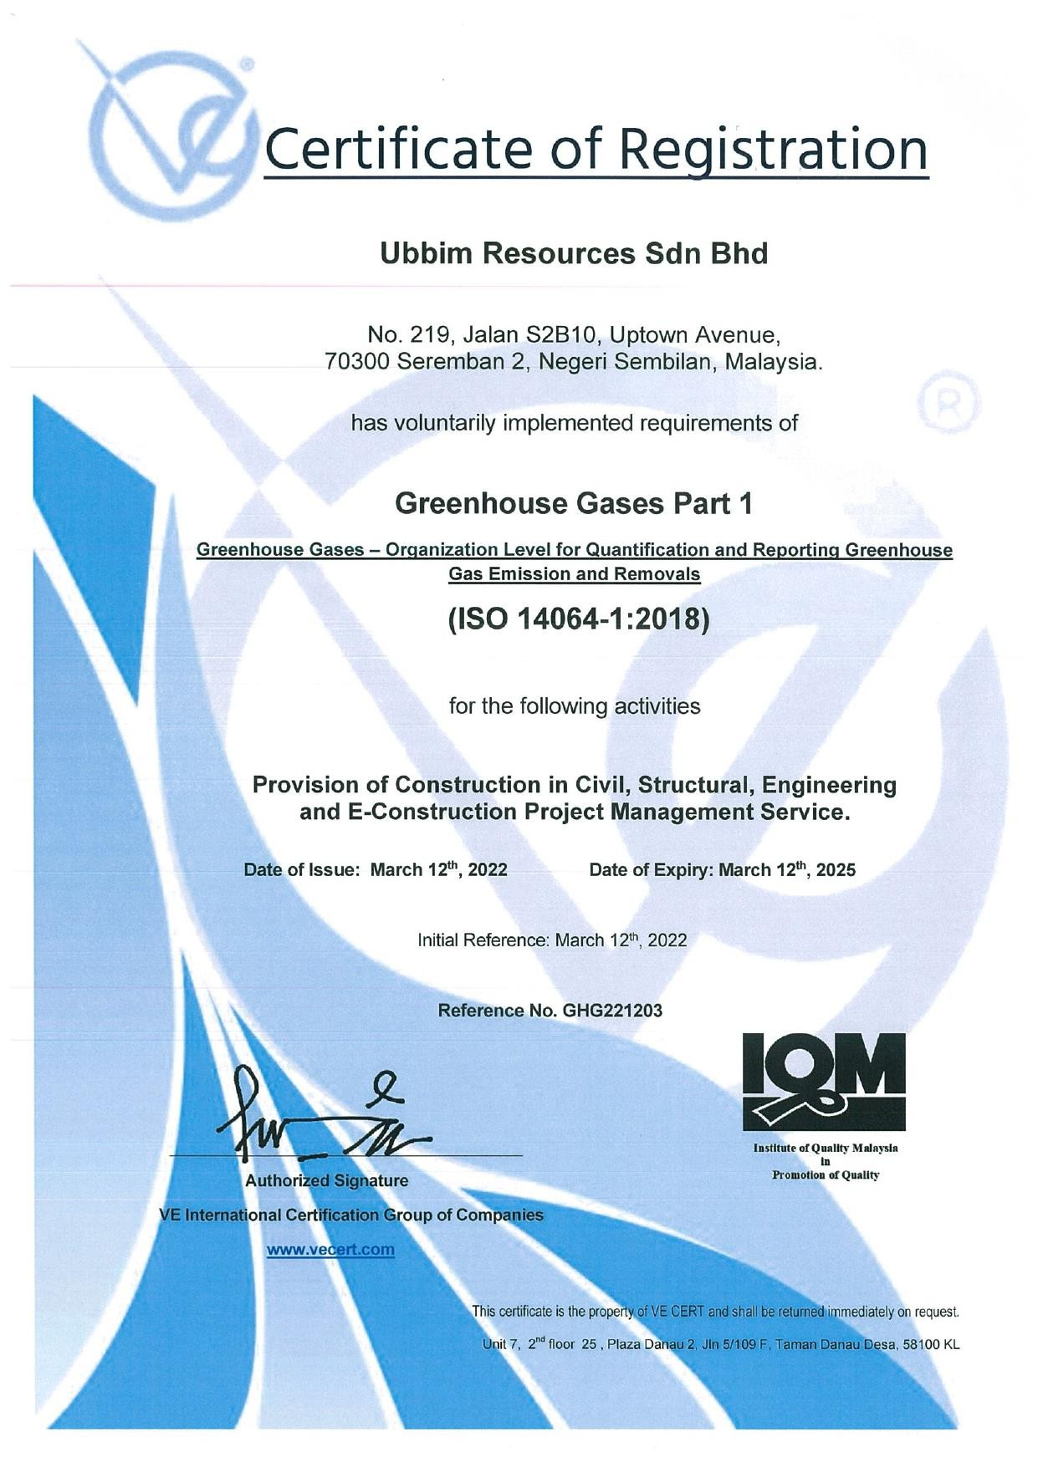
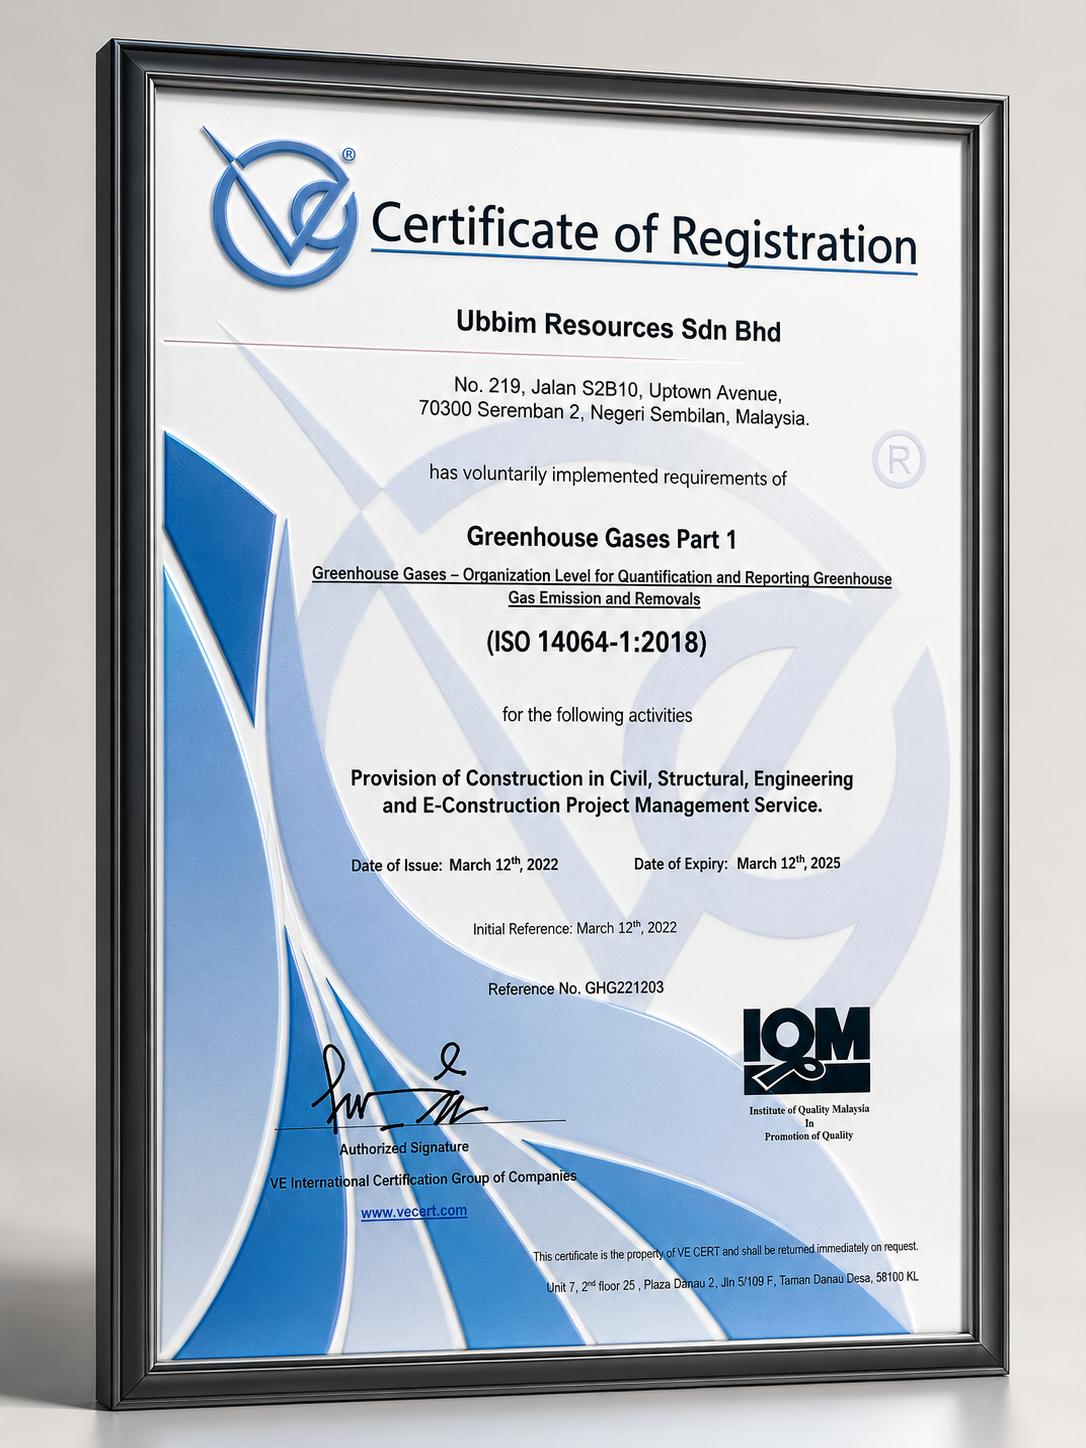
style(certifications): 2 rows x 3 cols layout, larger certificates

diff --git a/html/index.html b/html/index.html
@@ -159,7 +159,7 @@
         <div class="inline-flex items-center gap-2 px-3 py-1 rounded-full bg-violet-500/10 border border-violet-500/20 text-violet-400 text-xs font-medium mb-6 reveal">Credentials</div>
         <h2 class="text-4xl md:text-5xl font-display font-bold text-white leading-tight mb-6 reveal">Licenses & <span class="text-gradient">Certifications</span></h2>
       </div>
-      <div class="grid grid-cols-2 md:grid-cols-3 lg:grid-cols-6 gap-4">
+      <div class="grid grid-cols-2 md:grid-cols-3 gap-6 max-w-4xl mx-auto">
         <div class="gallery-item rounded-xl reveal" onclick="openModal('../images/picture-2.png')"><img src="../images/picture-2.png" alt="License 1"></div>
         <div class="gallery-item rounded-xl reveal" onclick="openModal('../images/picture-3.png')"><img src="../images/picture-3.png" alt="License 2"></div>
         <div class="gallery-item rounded-xl reveal" onclick="openModal('../images/picture-4.png')"><img src="../images/picture-4.png" alt="License 3"></div>

diff --git a/index.html b/index.html
@@ -197,7 +197,7 @@
         <div class="inline-flex items-center gap-2 px-3 py-1 rounded-full bg-violet-500/10 border border-violet-500/20 text-violet-400 text-xs font-medium mb-6 reveal">Credentials</div>
         <h2 class="text-4xl md:text-5xl font-display font-bold text-white leading-tight mb-6 reveal">Licenses & <span class="text-gradient">Certifications</span></h2>
       </div>
-      <div class="grid grid-cols-2 md:grid-cols-3 lg:grid-cols-6 gap-4">
+      <div class="grid grid-cols-2 md:grid-cols-3 gap-6 max-w-4xl mx-auto">
         <div class="gallery-item rounded-xl reveal" onclick="openModal('images/picture-2.png')"><img src="images/picture-2.png" alt="License 1"></div>
         <div class="gallery-item rounded-xl reveal" onclick="openModal('images/picture-3.png')"><img src="images/picture-3.png" alt="License 2"></div>
         <div class="gallery-item rounded-xl reveal" onclick="openModal('images/picture-4.png')"><img src="images/picture-4.png" alt="License 3"></div>

diff --git a/css/shared.css b/css/shared.css
@@ -377,7 +377,7 @@ body {
 /* --- Gallery --- */
 .gallery-item {
   position: relative;
-  aspect-ratio: 1;
+  aspect-ratio: 4 / 3;
   overflow: hidden;
   cursor: pointer;
   background: rgba(15, 23, 42, 0.6);
@@ -393,7 +393,7 @@ body {
   width: 100%;
   height: 100%;
   object-fit: contain;
-  padding: 1rem;
+  padding: 1.5rem;
   transition: transform 0.5s ease;
 }
 
